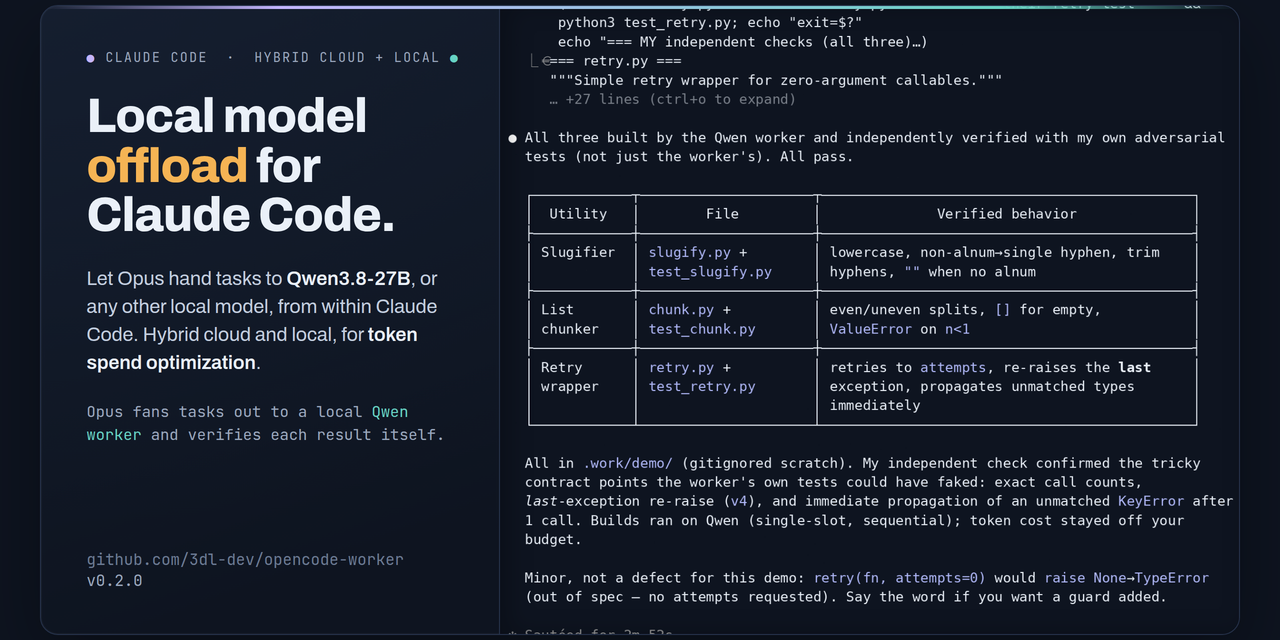
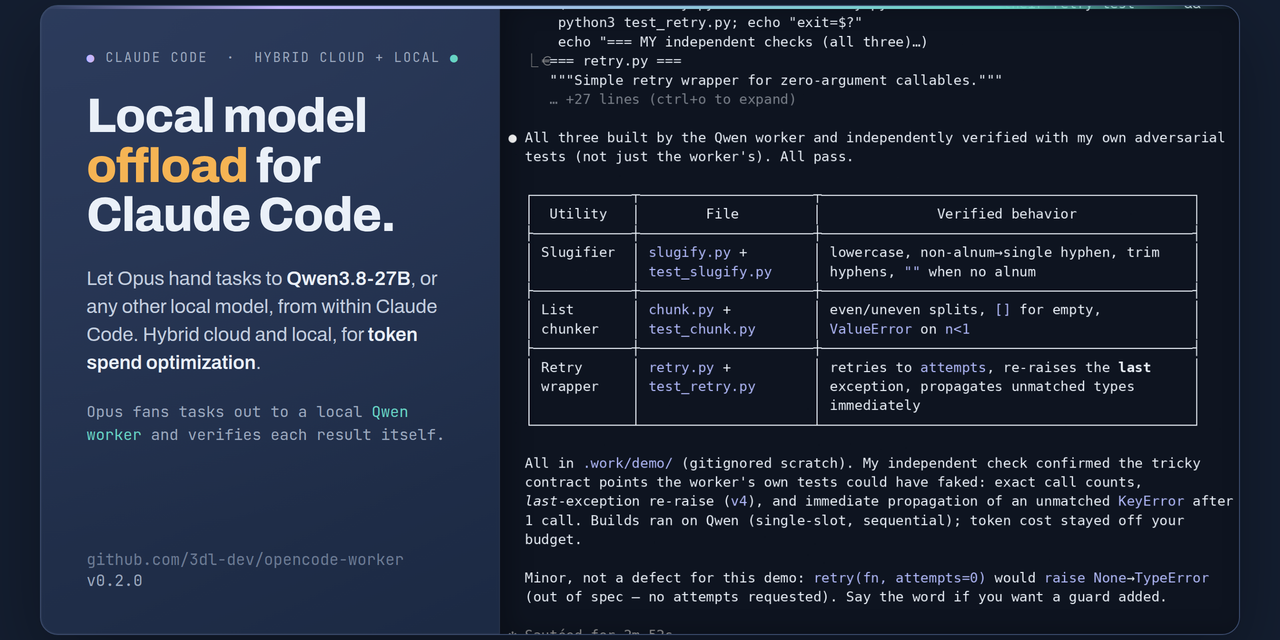
marketing: lift the unfurl ground so it is not a near-black box; add JPG fallback
GitHub showed a black box for the social preview. The file was already clean
(8-bit RGB, no alpha/profile, 1280x640, <1MB), so the cause is the card being ~90%
near-black plus possible PNG-processing on GitHub's side. Lifted the copy panel to
a visible slate (dark<40 fraction 0.90 -> 0.59) and added unfurl.jpg (177KB) as an
alternate format.

diff --git a/marketing/unfurl.html b/marketing/unfurl.html
@@ -7,12 +7,12 @@
     --gold:#F5B454;--opus:#C4B5FD;--qwen:#67D3C4;--sans:"Archivo",system-ui,sans-serif;
     --mono:"JetBrains Mono",ui-monospace,monospace}
   *{box-sizing:border-box;margin:0;padding:0}
-  html,body{background:var(--ink)}
+  html,body{background:#141E30}
   body{min-height:100vh;display:flex;align-items:center;justify-content:center;padding:24px;
     font-family:var(--sans);color:var(--text);-webkit-font-smoothing:antialiased}
   .card{width:100%;max-width:1200px;aspect-ratio:1200/630;container-type:inline-size;position:relative;
-    overflow:hidden;border-radius:1.4cqw;border:1px solid var(--line);
-    background:radial-gradient(130% 150% at 0% 0%,#18223660,#0E142000 55%),linear-gradient(160deg,#131C2B,#0E1420 66%);
+    overflow:hidden;border-radius:1.4cqw;border:1px solid #3A4A6A;
+    background:radial-gradient(120% 140% at 0% 0%,#2E3E6099,#1B294600 60%),linear-gradient(155deg,#293755 0%,#1C2A44 70%);
     box-shadow:0 2cqw 6cqw #00000055, inset 0 0 0 1px #ffffff08;
     display:grid;grid-template-columns:0.62fr 1fr}
   .card::before{content:"";position:absolute;inset:0 0 auto 0;height:3px;z-index:2;
